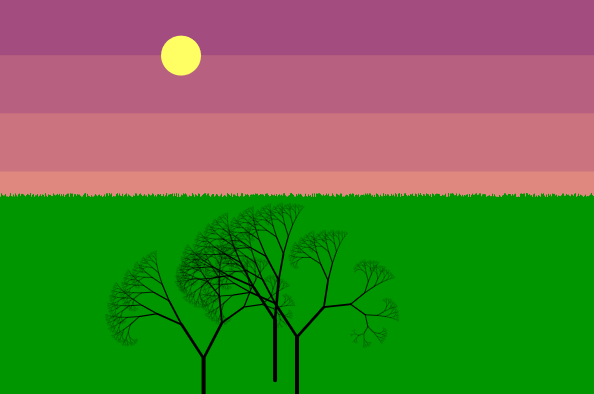
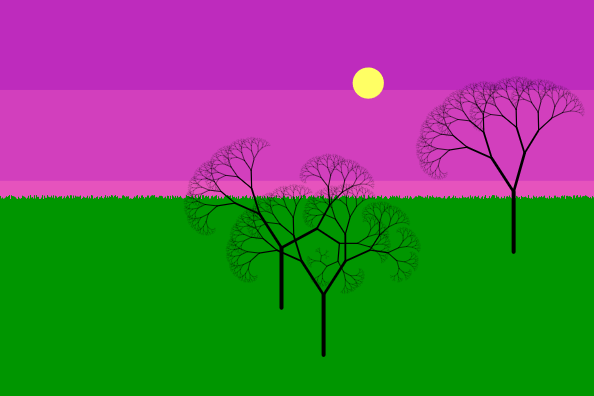
Add Fractal Trees at Sunset

diff --git a/js/art/fractal_trees.js b/js/art/fractal_trees.js
@@ -1,0 +1,75 @@
+/*
+
+This is a Live Art work created by Edward Delaporte.
+
+This script is Copyright Edward Delaporte 2021.
+
+This script and the art it creates are licensed under 
+a Creative Commons Attribution-ShareAlike 4.0 
+International License.
+
+http://creativecommons.org/licenses/by-sa/4.0/
+
+You can share your own remix of this code 
+as long as you display this license and attribution.
+
+*/
+
+
+var tree_split = random_plus_minus(30,90);
+
+function start_fractal() {
+  line_bit = new_line_segment(color(0,0,0));
+  line_bit.y = 300 + random_plus_minus(0, 75);
+  line_bit.x = 200 + random_plus_minus(0,100);
+  line_bit.length = 60;
+  line_bit.degrees = 270; 
+  do_fractal(line_bit);
+
+  line_bit.y = 300 + random_plus_minus(0, 75);
+  line_bit.x = 300 + random_plus_minus(0,100);
+  tree_split = tree_split + random_plus_minus(5,30);
+  do_fractal(line_bit);
+
+  line_bit.y = 300 + random_plus_minus(0, 75);
+  line_bit.x = 500 + random_plus_minus(0,50);
+  tree_split = tree_split + random_plus_minus(5,30);
+  do_fractal(line_bit);
+}
+
+async function do_fractal(bit) {
+  const next_bit = structuredClone(draw_line_segment(bit));
+  next_bit.length = next_bit.length*.67;
+  next_bit.weight = next_bit.weight*.67;
+  next_bit.degrees = add_degrees(bit.degrees, tree_split);
+
+  if(next_bit.length > 1) {
+
+    await do_fractal(next_bit);
+    const bit2 = structuredClone(next_bit);
+    bit2.degrees = add_degrees(bit.degrees, -33);
+    await do_fractal(bit2);
+
+  }
+}
+
+function setup() {
+  // maxim = .5 * window.innderWidth;
+  maxim_x = 600;
+  maxim_y = 400;
+  midline = maxim_y / 2;
+  myCanvas = createCanvas(maxim_x, maxim_y);
+  make_horizon(0,0,600,400);
+  draw_horizon(0,0,600,400);
+  setup_season();
+  draw_ground(myCanvas, maxim_y /2);
+  start_fractal();
+  console.log("setup done");
+}
+
+function draw() {
+}
+
+function mouseClicked() {
+  new_random(get_url_seed());
+}

diff --git a/art/live/index.md b/art/live/index.md
@@ -6,6 +6,8 @@ pagination:
     size: 20
 items: 
     # - {id: "latest", name: "Another Sketch - In Progress"}
+    - {id: "fractal_trees", name: "Fractal Trees at Sunset - 2023 September 23", 
+    desc: "Trees again. This time with mostly unrandomized fractals."}
     - {id: "fractal_sunset", name: "A Fractal at Sunset - 2023 September 22", 
     desc: "Mixing some techniques."}
     - {id: "fractal1", name: "First Fractal  - 2023 September 22", 

diff --git a/art/live/fractal_trees.md b/art/live/fractal_trees.md
@@ -1,0 +1,7 @@
+---
+layout: liveart.multi.script.njk
+title: Fractal Trees at Sunset - 2023 September 23
+script: ['/js/art/share/canvas.js', '/js/art/share/random.js', '/js/art/share/ground.js', '/js/art/share/horizon.js', '/js/art/share/draw_kit.js', '/js/art/fractal_trees.js']
+---
+
+
